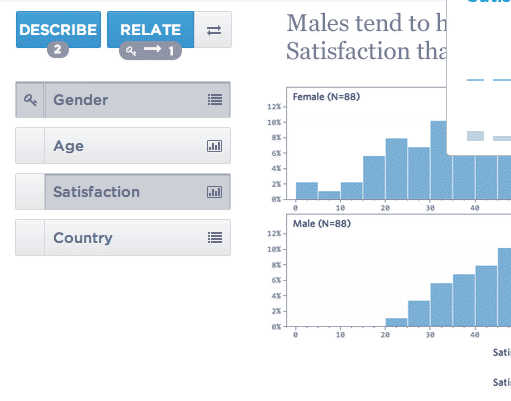
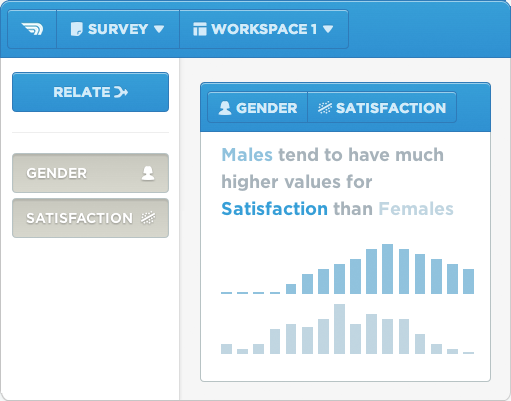
Image based

diff --git a/index.html b/index.html
@@ -192,88 +192,7 @@
 							<div class="theslider"></div>
 						</div>
 						<div class="back">
-							<div class="compare-interface">
-								<div class="card-top">
-									<div class="titlewrap pull-left">
-										<div class="btn-group">
-											<button class="btn btn-info"><img src="img/statwing_logo_small.png"/></button>
-											<button class="btn btn-info"><i class="ss-icon">file</i> Survey <i class="ss-icon">dropdown</i></button>
-											<button class="btn btn-info"><i class="ss-icon">layout</i> Workspace 1 <i class="ss-icon">dropdown</i></button>
-										</div>
-									</div>
-								</div>
-								<div class="sidebar">
-									<button type="button" class="btn btn-primary btn-block btn-relate" style="margin-top:60px;">Relate <i class="ss-icon">merge</i></button>
-									<hr>
-									<button id="compareBtn1" type="button" class="btn btn-compare btn-block active">
-										<span class="pull-left">
-											Gender
-										</span>
-										<i class="ss-icon pull-right">
-											femaleuser
-										</i>
-									</button>
-									<button id="compareBtn3" type="button" class="btn btn-compare btn-block active">
-										<span class="pull-left">
-											Satisfaction
-										</span>
-										<i class="ss-icon pull-right">
-											scatterchart
-										</i>
-									</button>
-								</div>
-								<div class="workspace">
-									<div class="card" style="margin:20px;">
-										<div class="card-top clearfix">
-											<div class="titlewrap pull-left">
-												<div class="btn-group">
-													<button class="btn btn-info"><i class="ss-icon">femaleuser</i> Gender</button>
-													<button class="btn btn-info"><i class="ss-icon">scatterchart</i> Satisfaction</button>
-												</div>
-											</div>
-										</div>
-										<h4><span class="var_name" style="color: #8fc3db">Males</span> tend to have much higher values for <span class="var_name">Satisfaction</span> than <span class="var_name" style="color: #c0d6e0">Females</span></h4>
-										<div class="relative" style="margin-left:20px;">
-											<div class="chart-male">
-												<div class="bar-wrap"><div class="bar bar-1"></div></div>
-												<div class="bar-wrap"><div class="bar bar-2"></div></div>
-												<div class="bar-wrap"><div class="bar bar-3"></div></div>
-												<div class="bar-wrap"><div class="bar bar-4"></div></div>
-												<div class="bar-wrap"><div class="bar bar-5"></div></div>
-												<div class="bar-wrap"><div class="bar bar-6"></div></div>
-												<div class="bar-wrap"><div class="bar bar-7"></div></div>
-												<div class="bar-wrap"><div class="bar bar-8"></div></div>
-												<div class="bar-wrap"><div class="bar bar-9"></div></div>
-												<div class="bar-wrap"><div class="bar bar-10"></div></div>
-												<div class="bar-wrap"><div class="bar bar-11"></div></div>
-												<div class="bar-wrap"><div class="bar bar-12"></div></div>
-												<div class="bar-wrap"><div class="bar bar-13"></div></div>
-												<div class="bar-wrap"><div class="bar bar-14"></div></div>
-												<div class="bar-wrap"><div class="bar bar-15"></div></div>
-												<div class="bar-wrap"><div class="bar bar-16"></div></div>
-											</div>
-											<div class="chart-female">
-												<div class="bar-wrap"><div class="bar bar-1"></div></div>
-												<div class="bar-wrap"><div class="bar bar-2"></div></div>
-												<div class="bar-wrap"><div class="bar bar-3"></div></div>
-												<div class="bar-wrap"><div class="bar bar-4"></div></div>
-												<div class="bar-wrap"><div class="bar bar-5"></div></div>
-												<div class="bar-wrap"><div class="bar bar-6"></div></div>
-												<div class="bar-wrap"><div class="bar bar-7"></div></div>
-												<div class="bar-wrap"><div class="bar bar-8"></div></div>
-												<div class="bar-wrap"><div class="bar bar-9"></div></div>
-												<div class="bar-wrap"><div class="bar bar-10"></div></div>
-												<div class="bar-wrap"><div class="bar bar-11"></div></div>
-												<div class="bar-wrap"><div class="bar bar-12"></div></div>
-												<div class="bar-wrap"><div class="bar bar-13"></div></div>
-												<div class="bar-wrap"><div class="bar bar-14"></div></div>
-												<div class="bar-wrap"><div class="bar bar-15"></div></div>
-												<div class="bar-wrap"><div class="bar bar-16"></div></div>
-											</div>
-										</div>
-									</div>
-								</div>
-							</div>
+							<img src="img/stat-bg.png">
 						</div>
 						<div class="front">
 							<img src="img/stat-fg.png">

diff --git a/css/main.css b/css/main.css
@@ -931,43 +931,3 @@ animation:slider 5s infinite;
 animation:front 5s infinite;
 -webkit-animation:front 5s infinite;
 }
-.compare-interface {
-background-color: #f6f6f6;
-border: 1px solid #CECECE;
-box-shadow: 0px 1px 5px rgba(0,0,0,0.05);
-border-radius: 10px;
-}
-.compare-interface .sidebar {
-width: 35%;
-background-color: white;
-border-right: 1px solid #DDDDDD;
-padding: 10px;
-box-shadow: 0px 0px 5px rgba(0,0,0,0.1);
-height: 400px;
-border-bottom-left-radius: 10px;
-float: left;
-}
-.compare-interface .workspace {
-width: 65%;
-float: left;
-padding-top: 60px;
-}
-.compare-interface .btn-info img {
-width: 22px;
-margin-top: 2px;
-}
-.compare-interface .card-top {
-border-top-left-radius: 10px;
-border-top-right-radius: 10px;
-}
-.compare-interface .card .card-top {
-border-top-left-radius: 5px;
-border-top-right-radius: 5px;
-}
-.compare-interface .card {
-height: 300px;
-margin: 20px;
-}
-.compare-interface .card h4 {
-	margin-top: 50px;
-}
